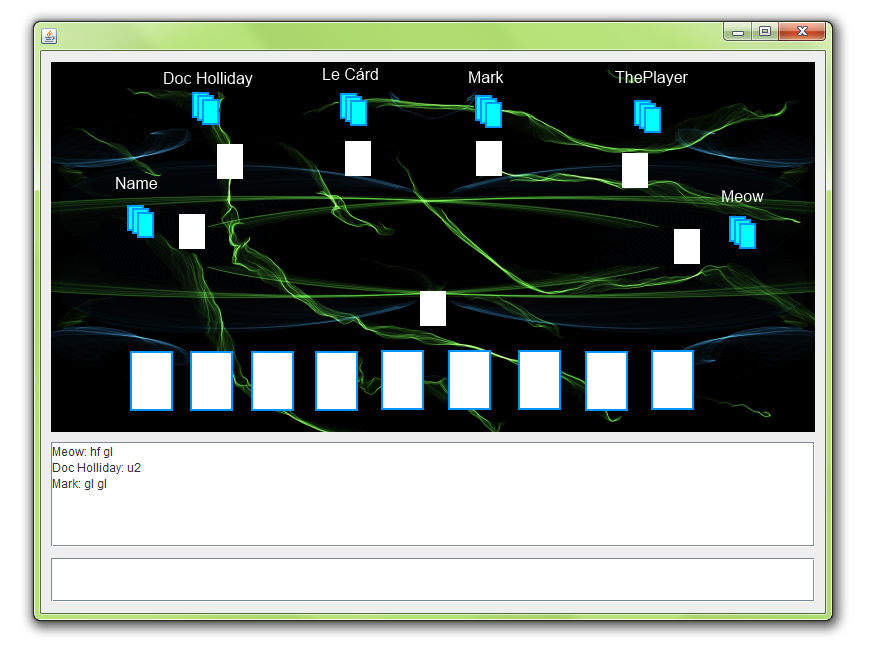
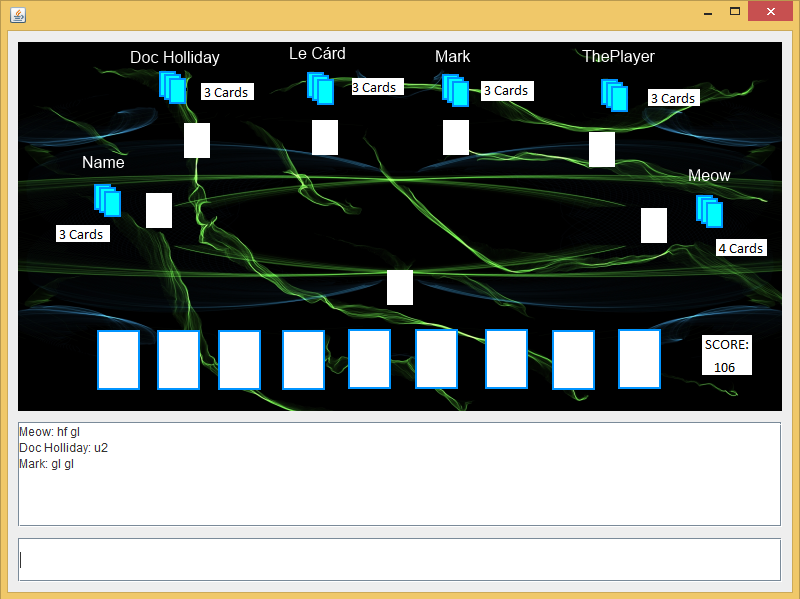
letztes Fenster

diff --git a/src/windows/ClientWindow.java b/src/windows/ClientWindow.java
@@ -12,6 +12,7 @@ import javax.imageio.ImageIO;
 import javax.swing.JFrame;
 import javax.swing.JPanel;
 import javax.swing.border.EmptyBorder;
+import javax.swing.Icon;
 import javax.swing.ImageIcon;
 import javax.swing.JScrollPane;
 import javax.swing.JTextArea;
@@ -34,7 +35,7 @@ public class ClientWindow extends JFrame {
 	/**
 	 * Launch the application.
 	 */
-	public static void main(String[] args) {
+	public static void main(String[] args) throws IOException{
 		EventQueue.invokeLater(new Runnable() {
 			public void run() {
 				try {
@@ -49,14 +50,20 @@ public class ClientWindow extends JFrame {
 
 	/**
 	 * Create the frame.
+	 * @throws IOException 
 	 */
-	public ClientWindow() {
+	public ClientWindow() throws IOException {
 		setDefaultCloseOperation(JFrame.EXIT_ON_CLOSE);
 		setBounds(100, 100, 800, 600);
 		contentPane = new JPanel();
 		contentPane.setBorder(new EmptyBorder(5, 5, 5, 5));
 		setContentPane(contentPane);
 		contentPane.setLayout(null);
+		
+	/*	JPanel panel = new ImagePanel();
+		panel.setBounds(10, 11, 764, 370);
+		panel.setOpaque(false);
+		contentPane.add(panel); */
 		
 		JScrollPane scrollPane = new JScrollPane();
 		scrollPane.setBounds(10, 391, 764, 105);
@@ -73,25 +80,31 @@ public class ClientWindow extends JFrame {
 		contentPane.add(textField);
 		textField.setColumns(10);
 		
-		JPanel panel0 = new ImagePanel();
-		panel0.setBounds(10, 11, 764, 370);
-		panel0.setOpaque(false);
-		contentPane.add(panel0);
-	/*	Image image = Toolkit.getDefaultToolkit().createImage("./src/game.png");
-		JLabel bild = new JLabel(new ImageIcon(image));
-		bild.setBounds(10, 11, 764, 370);
-		bild.setOpaque(false);
-		contentPane.add(bild); */
+		//ImageIcon image = new ImageIcon(getClass().getResource("kartenspiel.png"));
+		JLabel lblNewLabel_1 = new JLabel(new ImageIcon("./src/game.png"));
+		lblNewLabel_1.setBounds(10, 11, 764, 369);
+		//lblNewLabel_1.setOpaque(false);
 		
-		JPanel panel = new JPanel();
-		panel.setBackground(Color.WHITE);
-		panel.setBounds(703, 317, 71, 63);
-		panel.setOpaque(true);
-		contentPane.add(panel);
 		
-		JLabel lblNewLabel = new JLabel("New label");
-		lblNewLabel.setForeground(Color.RED);
-		panel.add(lblNewLabel);
+		JButton button = new JButton("Button");
+		
+		JLabel lblNewLabel = new JLabel("Score    106");
+		lblNewLabel.setHorizontalAlignment(SwingConstants.CENTER);
+		lblNewLabel.setBounds(768, 373, 56, 55);
+		lblNewLabel_1.add(lblNewLabel);
+		lblNewLabel_1.add(button);
+	contentPane.add(lblNewLabel_1);
+	
+/*	JButton btnNewButton = new JButton("New button");
+	btnNewButton.setBounds(237, 183, 89, 23);
+	lblNewLabel_1.add(btnNewButton);
+	
+	JLabel lblNewLabel_2 = new JLabel("SCORE 106");
+	lblNewLabel_2.setBackground(new Color(192, 192, 192));
+	lblNewLabel_2.setHorizontalAlignment(SwingConstants.CENTER);
+	lblNewLabel_2.setBounds(69, 102, 70, 70);
+	lblNewLabel_2.setOpaque(false);
+	contentPane.add(lblNewLabel_2); */
 	}
 	
 	class ImagePanel extends JPanel{
@@ -104,16 +117,17 @@ public class ClientWindow extends JFrame {
 
 	    public ImagePanel() {
 	       try {                
-	          image = ImageIO.read(new File("./src/game.png"));
+	          image = ImageIO.read(new File("kartenspiel.png"));
 	       } catch (IOException ex) {
 	            // handle exception...
 	       }
 	    }
 
 	    @Override
-	    protected void paintComponent(Graphics g) {
+		public void paintComponent(Graphics g) {
+	        //super.paintComponent(g);
+	        g.drawImage(image, 0, 0, null); // see javadoc for more info on the parameters 
 	        super.paintComponent(g);
-	        g.drawImage(image, 0, 0, null); // see javadoc for more info on the parameters            
 	    }
 
 	}
